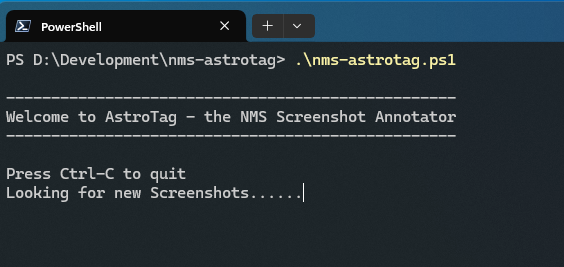
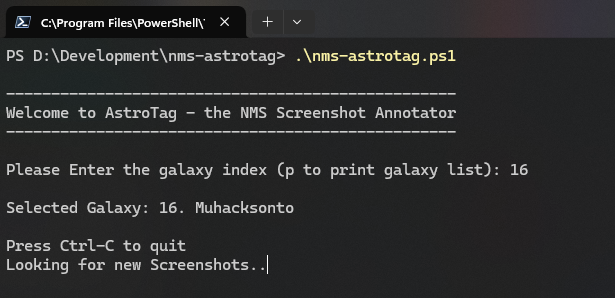
displays selected galaxy in the main loop and updates screenshot and doc to reflect the change

diff --git a/README.md b/README.md
@@ -69,7 +69,7 @@ this will cause astrotag to run in the background and locate un-annotated screen
 It is recommended that you run this script within the new windows terminal which can be downloaded from the microsoft store. This way you can simply click on the screenshot links that AstroTag displays in the console for the image that is currently being processed. Clicking on the link in the windows terminal will open that particular screenshot up in your default image viewer so you can see which screenshot is about to be tagged. Then you can confirm the details and AstroTag will overlay the details and move to the next screenshot.
 
 # Images
-AstroTag will start the main loop upon startup and look for any new screenshots:
+AstroTag will start the main loop upon startup, and asks you to confirm the galaxy name before the main loop starts, which simply runs in the background looking for any new screenshots:
 
 ![Main Screen](Images/01.png)
 
